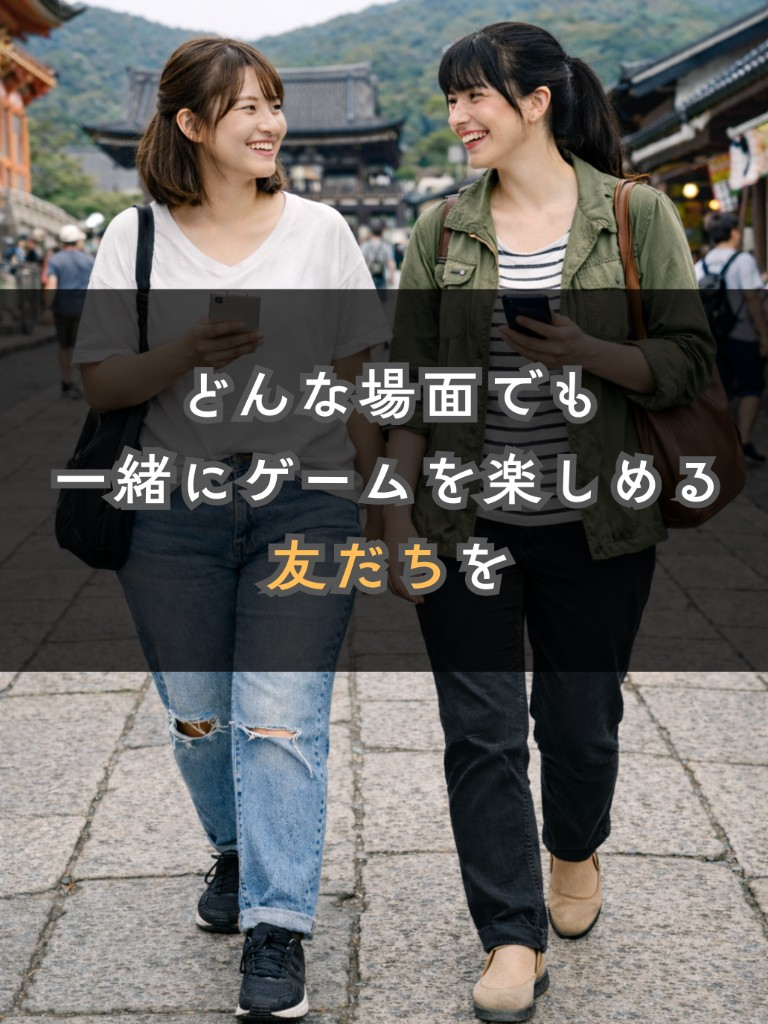
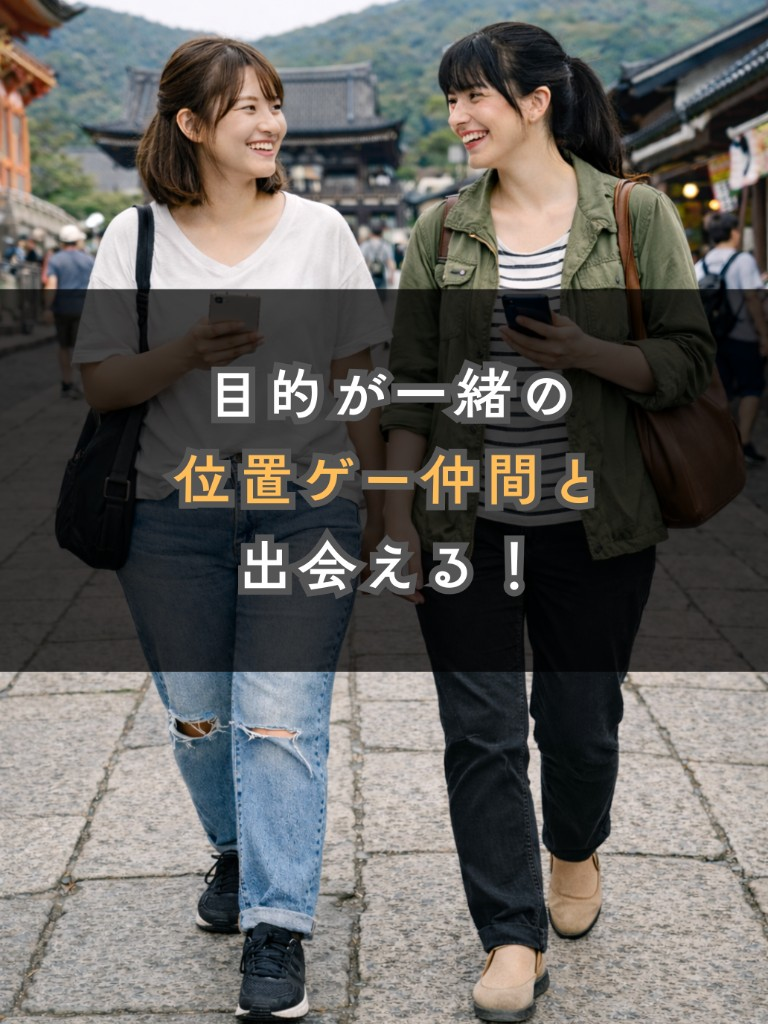
haer

Changed region(s): [[0.0625, 0.3438, 0.9375, 0.5938]]

diff --git a/app/go/form/layout.tsx b/app/go/form/layout.tsx
@@ -1,10 +1,10 @@
 import type { Metadata } from "next";
 
 export const metadata: Metadata = {
-  title: "あるこ - 位置ゲーで一緒に周れる人が見つかる | 事前登録",
+  title: "あるこ - 位置ゲー専用仲間探しアプリ | 事前登録",
   description: "あるこは、レイド募集や交換募集で位置ゲーを一緒に周れる相手を見つけやすくするサービスです。友達追加で事前登録、無料・いつでも解除OK。",
   openGraph: {
-    title: "あるこ - 位置ゲーで一緒に周れる人が見つかる | 事前登録",
+    title: "あるこ - 位置ゲー専用仲間探しアプリ | 事前登録",
     description: "あるこは、レイド募集や交換募集で位置ゲーを一緒に周れる相手を見つけやすくするサービスです。友達追加で事前登録、無料・いつでも解除OK。",
     type: "website",
     url: "https://real-lp.vercel.app/go/form",
@@ -13,13 +13,13 @@ export const metadata: Metadata = {
         url: '/og-image.png?v=2',
         width: 1200,
         height: 630,
-        alt: 'あるこ - 位置ゲーで一緒に周れる人が見つかる',
+        alt: 'あるこ - 位置ゲー専用仲間探しアプリ',
       },
     ],
   },
   twitter: {
     card: "summary_large_image",
-    title: "あるこ - 位置ゲーで一緒に周れる人が見つかる | 事前登録",
+    title: "あるこ - 位置ゲー専用仲間探しアプリ | 事前登録",
     description: "あるこは、レイド募集や交換募集で位置ゲーを一緒に周れる相手を見つけやすくするサービスです。友達追加で事前登録、無料・いつでも解除OK。",
     images: ['/og-image.png?v=2'],
   },

diff --git a/app/page.tsx b/app/page.tsx
@@ -38,7 +38,7 @@ const RECRUIT_CASES = [
 const FLOW_STEPS = [
   {
     title: '募集を出す・探す',
-    text: '「今このレイドに行きたい」「交換したい」など、目的ベースで相手を探せます。',
+    text: '「今このレイドに行きたい」「交換したい」など、目的ベースで相手を探せます。募集だけでなく、一覧から気になる相手に直接依頼することも可能です。',
   },
   {
     title: '相手のプロフィールを確認',
@@ -120,7 +120,7 @@ function Header() {
             </div>
             <div>
               <span className="text-lg font-bold text-slate-900">あるこ</span>
-              <p className="text-[11px] text-slate-500 -mt-0.5 hidden sm:block">位置ゲーで一緒に周れる人が見つかる</p>
+              <p className="text-[11px] text-slate-500 -mt-0.5 hidden sm:block">位置ゲー専用仲間探しアプリ</p>
             </div>
           </div>
           <CTAButton className="px-5 py-2.5 text-sm" placement="header">
@@ -427,7 +427,7 @@ function Footer() {
       <Container>
         <div className="text-center">
           <p className="text-lg font-bold text-white">あるこ</p>
-          <p className="mt-1 text-sm text-slate-400">位置ゲーで一緒に周れる人が見つかる</p>
+          <p className="mt-1 text-sm text-slate-400">位置ゲー専用仲間探しアプリ</p>
           <div className="mt-6 flex flex-wrap items-center justify-center gap-3 text-sm">
             <a href="/support" className="underline hover:text-white">サポート</a>
             <span className="text-slate-500">|</span>

diff --git a/app/layout.tsx b/app/layout.tsx
@@ -16,10 +16,10 @@ const geistMono = Geist_Mono({
 
 export const metadata: Metadata = {
   metadataBase: new URL(process.env.NEXT_PUBLIC_SITE_URL || 'https://real-lp.vercel.app'),
-  title: "あるこ - 位置ゲーで一緒に周れる人が見つかる",
+  title: "あるこ - 位置ゲー専用仲間探しアプリ",
   description: "あるこは、レイド募集や交換募集で位置ゲーを一緒に周れる相手を見つけやすくするサービスです。まずは気軽に合流して、気が合えばまた一緒に遊べます。",
   openGraph: {
-    title: "あるこ - 位置ゲーで一緒に周れる人が見つかる",
+    title: "あるこ - 位置ゲー専用仲間探しアプリ",
     description: "レイド募集や交換募集で、今ちょっと一緒に周れる相手を見つけやすくするサービス。",
     type: "website",
     images: [
@@ -27,13 +27,13 @@ export const metadata: Metadata = {
         url: '/og-image.png?v=2',
         width: 1200,
         height: 630,
-        alt: 'あるこ - 位置ゲーで一緒に周れる人が見つかる',
+        alt: 'あるこ - 位置ゲー専用仲間探しアプリ',
       },
     ],
   },
   twitter: {
     card: "summary_large_image",
-    title: "あるこ - 位置ゲーで一緒に周れる人が見つかる",
+    title: "あるこ - 位置ゲー専用仲間探しアプリ",
     description: "レイド募集や交換募集で、今ちょっと一緒に周れる相手を見つけやすくするサービス。",
     images: ['/og-image.png?v=2'],
   },
